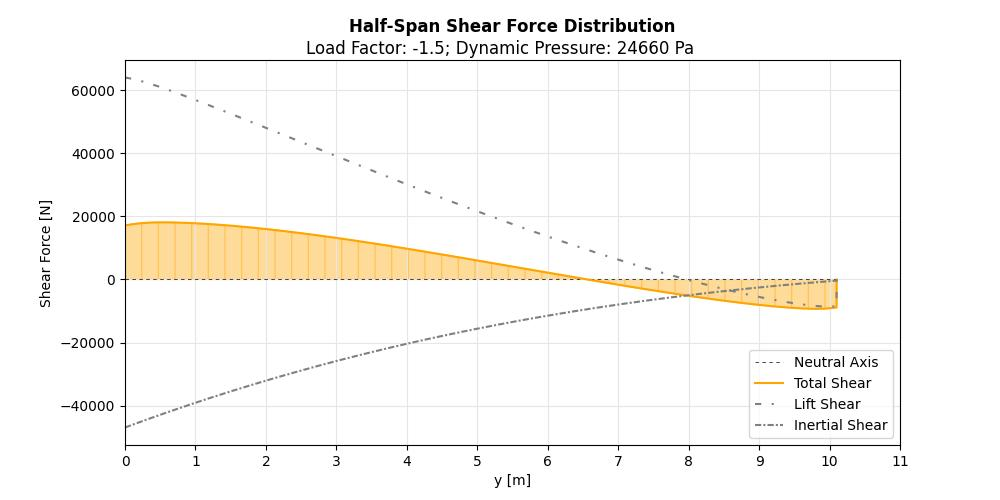
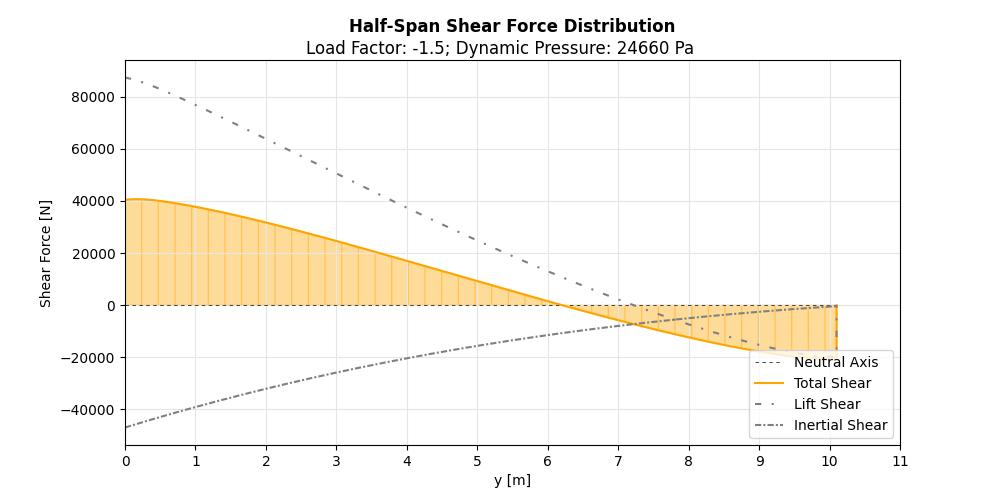
Finalized Graphs

diff --git a/main.py b/main.py
@@ -13,11 +13,15 @@ from aerodynamic_dist import * #Import interpolated continuous distributions fro
 
 sf=1.5 # Safety Factor
 
+nload1=sf*2.609587504
+CL1 = sf*0.133858438
+
 nload2=sf*0   #2.609587504              # (float(input("Load Factor [-]: "))) # Load Factor
 CL2 = sf*0    #0.133858438               #(float(input("Lift Coefficient C_L [-]: "))) # CL
 
-nload1=sf*2.609587504
-CL1 = sf*0.133858438
+q3=24658.91887
+nload3=sf*-1
+CL3 = sf*-0.080148226
 
 y=np.linspace(0,10.1,sample)
 x=np.linspace(0,10.1,sample)
@@ -99,6 +103,7 @@ def calcForces(sf,nload,q,CL):
 
 sum_load1,sum_shear1,sum_moment1,torque_dist1,lift_shear1,inertial_shear1,lift_moment1,inertial_moment1=calcForces(1.5,nload1,q,CL1)
 sum_load2,sum_shear2,sum_moment2,torque_dist2,lift_shear2,inertial_shear2,lift_moment2,inertial_moment2=calcForces(1.5,nload2,q,CL2)
+sum_load3,sum_shear3,sum_moment3,torque_dist3,lift_shear3,inertial_shear3,lift_moment3,inertial_moment3=calcForces(1.5,nload3,q3,CL3)
 
 # Plotting
 
@@ -181,5 +186,6 @@ def plot(x,sum_shear,lift_shear,inertial_shear,sum_moment,lift_moment,inertial_m
 
     plt.show()
     
-plot(x,sum_shear1,lift_shear1,inertial_shear1,sum_moment1,lift_moment1,inertial_moment1,torque_dist1,nload1,q)
-plot(x,sum_shear2,lift_shear2,inertial_shear2,sum_moment2,lift_moment2,inertial_moment2,torque_dist2,nload2,q)
+# plot(x,sum_shear1,lift_shear1,inertial_shear1,sum_moment1,lift_moment1,inertial_moment1,torque_dist1,nload1,q)
+# plot(x,sum_shear2,lift_shear2,inertial_shear2,sum_moment2,lift_moment2,inertial_moment2,torque_dist2,nload2,q)
+# plot(x,sum_shear3,lift_shear3,inertial_shear3,sum_moment3,lift_moment3,inertial_moment3,torque_dist3,nload3,q3)
